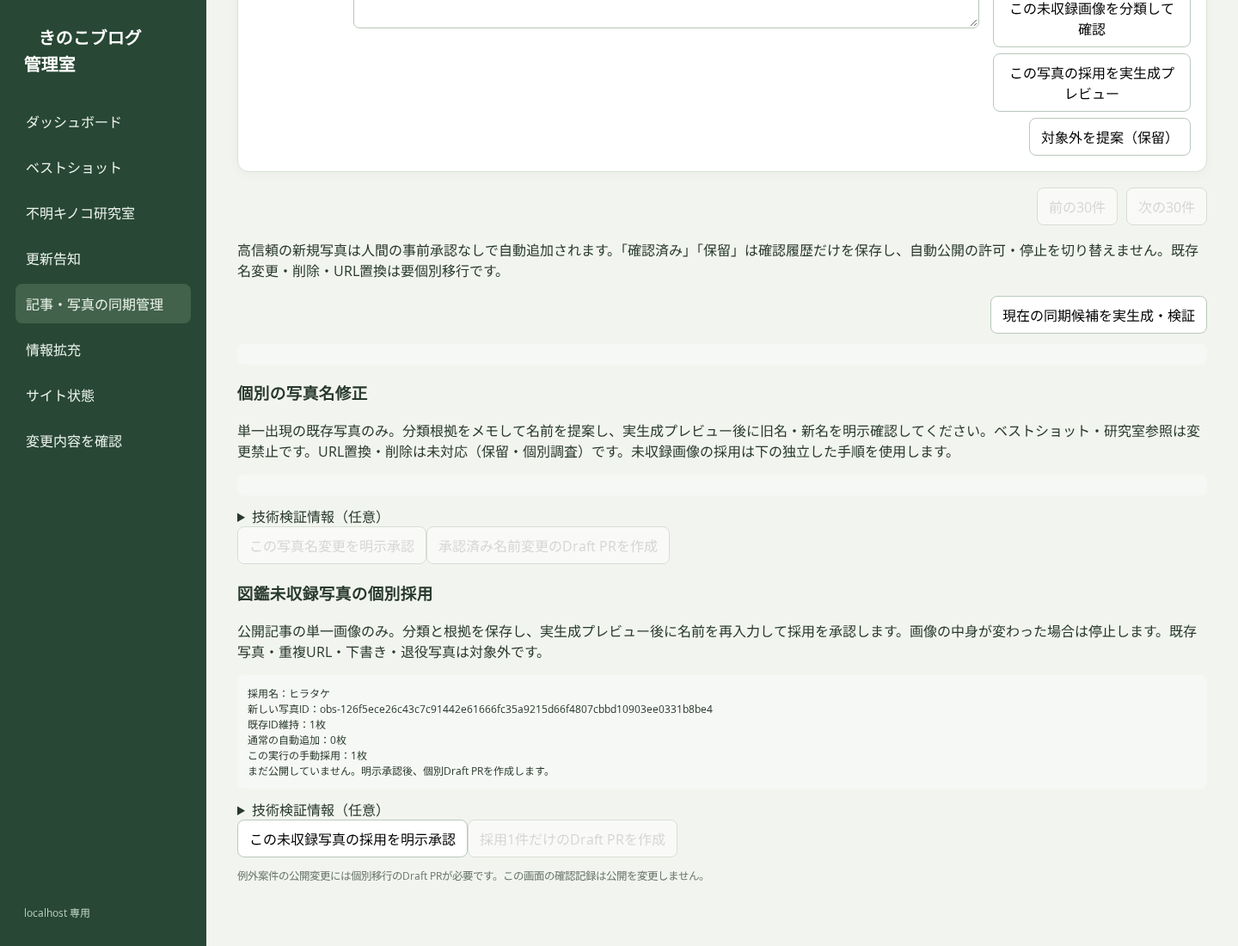
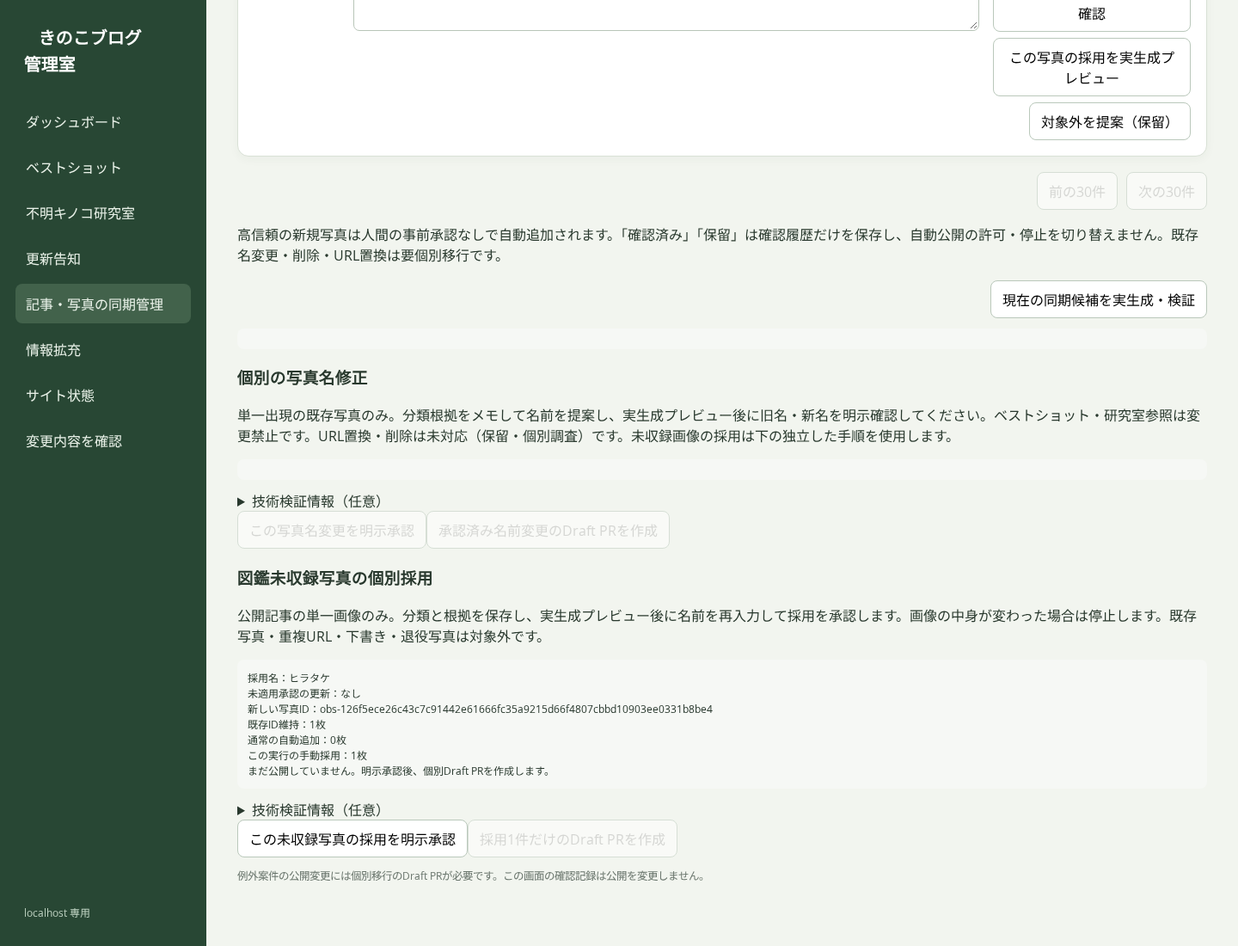
Finalize manual adoption freshness recovery and read-only validation

diff --git a/admin/static/admin.js b/admin/static/admin.js
@@ -61,6 +61,7 @@ async function loadSyncRows(){const query=new URLSearchParams({q:$('#sync-search
  v.rows.forEach(r=>{const [e,a,b]=item(r.current_name||r.candidate_name||r.detected_name||'名前未確認',r.auto_eligible?'自動追加予定（承認不要）':syncGroupNames[r.group],r.thumbnail);if(e.querySelector('img')){e.querySelector('img').loading='lazy';e.querySelector('img').referrerPolicy='no-referrer'}
  b.append(node('p',`現在: ${r.current_name||'未登録'} / 検出: ${r.detected_name||'なし'} / 候補: ${r.candidate_name||'未確定'}`),node('p',`${syncStateNames[r.state]||r.state} / ${syncReasons[r.reason]||'追加の確認が必要です'}`,'badge'),node('p',`${r.article_title||'記事情報未取得'} / 公開 ${r.published||'未取得'} / 更新 ${r.updated||'未取得'}`,'meta'),node('p',`EXIF撮影日: ${r.capture_date||'情報なし'} / 以前: ${r.previous_state||'未収録'}`,'meta'),node('p',`変更: ${r.change_type} / ${r.candidate_id}`,'meta'),node('p',`画像重複番号: ${r.ordinal} / 既存ID: ${r.observation_id||'未登録'}`,'meta'));
  if(r.unlisted_public_image)b.append(node('p',r.is_new_occurrence?'新しく検出した、図鑑に未収録の画像です。':'以前から公開記事に存在する、図鑑未収録の画像です。新規問題の件数とは区別しています。','meta'));
+ if(r.review && ['classify_named','classify_unknown','classify_non_mushroom'].includes(r.review.decision))b.append(node('p','人間の分類（公開への適用とは別）：'+({classify_named:'キノコ・'+r.review.proposed_name,classify_unknown:'キノコだが種名不明',classify_non_mushroom:'キノコ以外'}[r.review.decision]),'meta'));
  if(r.manual_adoption_receipt)b.append(node('p','手動採用済み。自動分類の結果とは別の承認記録です。適用 '+r.manual_adoption_receipt.applied_at,'meta'));
  if(r.adoption_block_reason)b.append(node('p','個別採用・継続不可：'+syncError(r.adoption_block_reason),'error'));
  if(r.auto_eligible)b.append(node('p','既存の安全条件を満たす自動追加候補です。事前承認は不要です。','meta'));
@@ -77,7 +78,7 @@ async function loadSyncRows(){const query=new URLSearchParams({q:$('#sync-search
  a.append(button('名前修正を提案（公開未収録・保護対象は保留のみ）',()=>openEditor('名前の提案を保留として保存',[field('人間が確認した名前','name')],async f=>{await choose('propose_name',f.get('name'));$('#editor').close()})));
  if(r.name_migration_available && r.review?.decision==='propose_name')a.append(button('この名前修正を実生成プレビュー',async()=>{try{const p=await api('/api/sync/exception-preview',{candidate_id:r.candidate_id,bundle_id:v.bundle_id});syncException=p;$('#sync-exception-result').textContent=`変更前：${p.old_name}\n変更後：${p.proposed_name}\n対象写真ID：${p.observation_id}\n既存写真ID維持：${p.validation.preserved_photo_ids}枚\n参照保護：検証済み\n公開：まだ変更していません。承認後にDraft PRを作成します。`;$('#sync-exception-technical').textContent=JSON.stringify(p,null,2);$('#sync-exception-approve').disabled=false;$('#sync-exception-pr').disabled=true;message('実生成済み。旧名と新名を確認して明示承認してください。')}catch(e){syncException=null;$('#sync-exception-approve').disabled=true;message(syncError(e.message),true)}}));
  if(r.unlisted_public_image && syncState.live_review_available)a.append(button('この未収録画像を分類して確認',()=>syncClassifyDialog(r,v.bundle_id,comment.querySelector('textarea').value)));
- if(r.adoption_available && ['classify_named','classify_unknown'].includes(r.review?.decision))a.append(button('この写真の採用を実生成プレビュー',async()=>{try{const p=await api('/api/sync/adoption-preview',{candidate_id:r.candidate_id,bundle_id:v.bundle_id});syncAdoption=p;$('#sync-adoption-result').textContent=`採用名：${p.gallery_name}\n新しい写真ID：${p.observation_id}\n既存ID維持：${p.validation.preserved_photo_ids}枚\n通常の自動追加：${p.validation.added_photos}枚\nこの実行の手動採用：${p.validation.manual_adoptions_applied_this_run}枚\nまだ公開していません。明示承認後、個別Draft PRを作成します。`;$('#sync-adoption-technical').textContent=JSON.stringify(p,null,2);$('#sync-adoption-approve').disabled=false;$('#sync-adoption-pr').disabled=true;message('個別採用の実生成プレビューが成功しました。')}catch(e){syncAdoption=null;$('#sync-adoption-approve').disabled=true;message(syncError(e.message),true)}}));
+ if(r.adoption_available && ['classify_named','classify_unknown'].includes(r.review?.decision))a.append(button('この写真の採用を実生成プレビュー',async()=>{try{const p=await api('/api/sync/adoption-preview',{candidate_id:r.candidate_id,bundle_id:v.bundle_id});syncAdoption=p;$('#sync-adoption-result').textContent=`採用名：${p.gallery_name}\n未適用承認の更新：${p.replaces_unapplied_instruction?'以前の未適用承認だけを置換します（写真削除ではありません）':'なし'}\n新しい写真ID：${p.observation_id}\n既存ID維持：${p.validation.preserved_photo_ids}枚\n通常の自動追加：${p.validation.added_photos}枚\nこの実行の手動採用：${p.validation.manual_adoptions_applied_this_run}枚\nまだ公開していません。明示承認後、個別Draft PRを作成します。`;$('#sync-adoption-technical').textContent=JSON.stringify(p,null,2);$('#sync-adoption-approve').disabled=false;$('#sync-adoption-pr').disabled=true;message('個別採用の実生成プレビューが成功しました。')}catch(e){syncAdoption=null;$('#sync-adoption-approve').disabled=true;message(syncError(e.message),true)}}));
  if(!r.protected_existing)a.append(button('対象外を提案（保留）',()=>choose('exclude')));
  out.append(e);
  });if(!v.rows.length)out.append(node('p','該当する候補はありません。','empty'));

diff --git a/admin/sync_adoption.py b/admin/sync_adoption.py
@@ -3,7 +3,7 @@ from datetime import datetime,timezone
 from pathlib import Path
 import json
 from article_sync import digest,payload_hash,SyncError
-from sync_adoptions import validate_manifest,stable_id,check_target,image_hash
+from sync_adoptions import validate_manifest,stable_id,check_target,image_hash,pending_replacement
 from .sync import LOCK,ReviewError,public_publication,live_capture,validate_package
 
 
@@ -38,11 +38,13 @@ def preview(review,body):
         review.adoption_preview=None
         if body['bundle_id']!=review.bundle_id:raise ReviewError('STALE_REVIEW')
         pub=public_publication(refresh=True);live=live_capture();review.assert_fresh(pub,live)
-        m=build_manifest(review,body['candidate_id']);result=validate_package(pub,adoption=m)
-        review.adoption_preview={'manifest':m,'candidate_id':body['candidate_id'],'bundle_id':review.bundle_id,'validation':result,'approved':False}
+        m=build_manifest(review,body['candidate_id'])
+        replacement=pending_replacement(m,pub['portal-data.json'],pub['article-sync-snapshot.json']['payload'])
+        result=validate_package(pub,adoption=m,replacement=replacement)
+        review.adoption_preview={'manifest':m,'candidate_id':body['candidate_id'],'bundle_id':review.bundle_id,'validation':result,'approved':False,'replacement':replacement}
         return {'ready':True,'migration_id':m['migration_id'],'decision':m['decision'],
             'gallery_name':m['gallery_name'],'observation_id':m['observation_id'],
-            'validation':result,'published':False,'affected_pages':['図鑑','五十音','季節','特徴','詳細','観察記録']}
+            'validation':result,'published':False,'replaces_unapplied_instruction':replacement['migration_id'] if replacement else None,'affected_pages':['図鑑','五十音','季節','特徴','詳細','観察記録']}
 
 
 def approve(review,body):
@@ -54,6 +56,7 @@ def approve(review,body):
         if body.get('confirm_adoption') is not True or body!={'migration_id':m['migration_id'],'confirm_name':m['gallery_name'],'confirm_adoption':True}:raise ReviewError('ADOPTION_EXPLICIT_CONFIRMATION_MISMATCH')
         pub=public_publication(refresh=True);live=live_capture();review.assert_fresh(pub,live)
         if build_manifest(review,p['candidate_id'])!=m:raise ReviewError('ADOPTION_IMAGE_OR_REVIEW_CHANGED')
+        if pending_replacement(m,pub['portal-data.json'],pub['article-sync-snapshot.json']['payload'])!=p['replacement']:raise ReviewError('ADOPTION_PENDING_REPLACEMENT_CHANGED')
         p['approved']=False
         review.audit.append({'event':'manual_photo_adoption_explicitly_approved','candidate_id':p['candidate_id'],
             'migration_id':m['migration_id'],'at':datetime.now(timezone.utc).isoformat(),'application':'DRAFT_PR_REQUIRED_NOT_PUBLISHED'})
@@ -61,9 +64,14 @@ def approve(review,body):
         return {'approved':True,'published':False,'migration_id':m['migration_id']}
 
 
-def validate_changed_paths(paths,m):
+def validate_changed_paths(paths,m,replacement=None):
     path='sync-migrations/photo-adoptions/'+validate_manifest(m)['migration_id']+'.json'
-    if paths!=[path]:raise ReviewError('ADOPTION_PR_PATHS_INVALID')
+    allowed=[path]
+    if replacement is not None:
+        validate_manifest(replacement)
+        if replacement['observation_id']!=m['observation_id'] or replacement['migration_id']==m['migration_id']:raise ReviewError('ADOPTION_PR_PATHS_INVALID')
+        allowed.append('sync-migrations/photo-adoptions/'+replacement['migration_id']+'.json')
+    if sorted(paths)!=sorted(allowed):raise ReviewError('ADOPTION_PR_PATHS_INVALID')
     return path
 
 
@@ -87,11 +95,19 @@ def create_pull_request(review,body):
         if run(['git','rev-parse','HEAD']).stdout.strip()!=base: raise ReviewError('FRESH_MAIN_CHECKOUT_REQUIRED')
         pub=public_publication();live=live_capture();review.assert_fresh(pub,live)
         if build_manifest(review,package['candidate_id'])!=m: raise ReviewError('STALE_REVIEW')
+        replacement=pending_replacement(m,pub['portal-data.json'],pub['article-sync-snapshot.json']['payload'])
+        if replacement!=package['replacement']:raise ReviewError('ADOPTION_PENDING_REPLACEMENT_CHANGED')
         directory=Path(tempfile.mkdtemp(prefix='kinoko-adoption-pr-'));work=directory/'work';added=False
         branch=safe_branch_name('photo-adoption')
         try:
             run(['git','worktree','add','-b',branch,str(work),'origin/main']);added=True
-            path=validate_changed_paths(['sync-migrations/photo-adoptions/'+m['migration_id']+'.json'],m)
+            paths=['sync-migrations/photo-adoptions/'+m['migration_id']+'.json']
+            if replacement is not None: paths.append('sync-migrations/photo-adoptions/'+replacement['migration_id']+'.json')
+            path=validate_changed_paths(paths,m,replacement)
+            if replacement is not None:
+                old_file=work/('sync-migrations/photo-adoptions/'+replacement['migration_id']+'.json')
+                if json.loads(old_file.read_text(encoding='utf-8'))!=replacement:raise ReviewError('ADOPTION_PENDING_REPLACEMENT_CHANGED')
+                old_file.unlink()
             target=work/path;target.parent.mkdir(parents=True,exist_ok=True)
             target.write_text(json.dumps(m,ensure_ascii=False,indent=2)+'\n',encoding='utf-8')
             previous=directory/'previous';previous.mkdir()
@@ -116,15 +132,16 @@ def create_pull_request(review,body):
                 if file.is_file() and not file.is_symlink(): file.unlink()
             changed=sorted(set(run(['git','diff','--name-only'],cwd=work).stdout.splitlines()+
                 run(['git','ls-files','--others','--exclude-standard'],cwd=work).stdout.splitlines()))
-            validate_changed_paths(changed,m)
-            run(['git','add','--',path],cwd=work)
-            validate_changed_paths(run(['git','diff','--cached','--name-only'],cwd=work).stdout.splitlines(),m)
+            validate_changed_paths(changed,m,replacement)
+            run(['git','add','--',*paths],cwd=work)
+            validate_changed_paths(run(['git','diff','--cached','--name-only'],cwd=work).stdout.splitlines(),m,replacement)
             run(['git','diff','--cached','--check'],cwd=work)
             # Last freshness check before any write to origin.
             run(['git','fetch','origin','main','gh-pages'])
             if run(['git','rev-parse','origin/main']).stdout.strip()!=base: raise ReviewError('STALE_MAIN')
             review.assert_fresh(public_publication(),live_capture())
             if build_manifest(review,package['candidate_id'])!=m: raise ReviewError('ADOPTION_IMAGE_OR_REVIEW_CHANGED')
+            if pending_replacement(m,review.publication['portal-data.json'],review.publication['article-sync-snapshot.json']['payload'])!=replacement:raise ReviewError('ADOPTION_PENDING_REPLACEMENT_CHANGED')
             if json.loads(target.read_text(encoding='utf-8')) != m:
                 raise ReviewError('ADOPTION_PR_MANIFEST_CHANGED')
             staged_manifest = json.loads(run(['git','show',':'+path],cwd=work).stdout)
@@ -140,7 +157,7 @@ def create_pull_request(review,body):
             result=run(['gh','pr','create','--base','main','--head',branch,'--draft',
                 '--title','Adopt explicitly reviewed public mushroom photo','--body-file',str(body_file)],cwd=work)
             review.audit.append({'event':'manual_photo_adoption_draft_pr_created','migration_id':m['migration_id'],
-                'at':datetime.now(timezone.utc).isoformat(),'application':'DRAFT_PR_NOT_PUBLISHED'})
+                'at':datetime.now(timezone.utc).isoformat(),'application':'DRAFT_PR_NOT_PUBLISHED','replaced_unapplied_migration':replacement['migration_id'] if replacement else None})
             review._save();review.adoption_preview=None
             return {'branch':branch,'url':result.stdout.strip(),'draft':True,'published':False}
         except (ReviewError,SyncError): raise

diff --git a/tests/test_admin_sync_adoption.py b/tests/test_admin_sync_adoption.py
@@ -179,3 +179,60 @@ def test_private_validation_code_uses_real_generator_but_no_source_bodies_escape
     assert main.ARTICLES_DIR==article_path and main.ARTICLE_METADATA_FILE==metadata_path
     assert original_files=={p:p.read_bytes() for p in Path(article_path).rglob('*') if p.is_file()}
     assert (candidate/'portal-data.json').exists() and not (candidate/'articles').exists()
+
+
+def test_stale_never_applied_instruction_can_be_reapproved_for_same_target_only(reviewed):
+    from sync_adoptions import pending_replacement
+    import sync_adoptions
+    r,row,pub,live=reviewed;classify(r,row)
+    old=app.build_manifest(r,row['candidate_id']);old['baseline_snapshot_sha256']='a'*64
+    old['migration_id']=sync.payload_hash({k:v for k,v in old.items() if k!='migration_id'})
+    sync.write_json(sync_adoptions.DIRECTORY/(old['migration_id']+'.json'),old)
+    p=app.preview(r,{'candidate_id':row['candidate_id'],'bundle_id':r.bundle_id})
+    assert p['ready'] and p['replaces_unapplied_instruction']==old['migration_id']
+    new=r.adoption_preview['manifest']
+    assert new['observation_id']==old['observation_id']
+    paths=['sync-migrations/photo-adoptions/'+m['migration_id']+'.json' for m in (old,new)]
+    assert app.validate_changed_paths(paths,new,old).endswith(new['migration_id']+'.json')
+    with pytest.raises(ReviewError):app.validate_changed_paths(paths+['data/best-shots.json'],new,old)
+    assert app.approve(r,{'migration_id':p['migration_id'],'confirm_name':p['gallery_name'],'confirm_adoption':True})['approved']
+    assert (sync_adoptions.DIRECTORY/(old['migration_id']+'.json')).exists()  # Preview never edits source.
+
+
+def test_classification_stays_visible_in_unlisted_filter_until_explicit_hold(reviewed):
+    r,row,pub,live=reviewed;classify(r,row)
+    assert r.page(group='unlisted')['total']==1 and r.page(group='held')['total']==0
+    classify(r,row,'hold','');assert r.page(group='held')['total']==1
+
+
+def test_refresh_pr_removes_only_same_never_applied_instruction(reviewed,monkeypatch):
+    import admin.git_workflow as workflow
+    import subprocess,json,sync_adoptions
+    from types import SimpleNamespace
+    r,row,pub,live=reviewed;classify(r,row)
+    old=app.build_manifest(r,row['candidate_id']);old['baseline_snapshot_sha256']='a'*64
+    old['migration_id']=sync.payload_hash({k:v for k,v in old.items() if k!='migration_id'})
+    sync.write_json(sync_adoptions.DIRECTORY/(old['migration_id']+'.json'),old)
+    p=app.preview(r,{'candidate_id':row['candidate_id'],'bundle_id':r.bundle_id})
+    app.approve(r,{'migration_id':p['migration_id'],'confirm_name':p['gallery_name'],'confirm_adoption':True})
+    new=deepcopy(r.adoption_preview['manifest']);paths=['sync-migrations/photo-adoptions/'+m['migration_id']+'.json' for m in (new,old)]
+    calls=[];work_holder=[];monkeypatch.setattr(workflow,'repository_status',lambda:{'gh_authenticated':True})
+    def run(args,**kw):
+        calls.append(args);out=''
+        if args[:3]==['git','worktree','add']:
+            work=Path(args[-2]);work_holder.append(work);(work/'tests').mkdir(parents=True);(work/'tests/test.js').write_text('')
+            sync.write_json(work/paths[1],old)
+        if args[:2]==['git','rev-parse']:out='a'*40
+        if args==['git','diff','--name-only']:out=paths[1]
+        if args[:2]==['git','ls-files']:out='' if '--' in args else paths[0]
+        if args==['git','diff','--cached','--name-only']:out='\n'.join(sorted(paths))
+        if args==['git','show',':'+paths[0]]:out=json.dumps(new)
+        if args[:2]==['git','push']:
+            assert not (work_holder[0]/paths[1]).exists()
+            assert json.loads((work_holder[0]/paths[0]).read_text())==new
+        if args[:3]==['gh','pr','create']:out='https://github.com/example/pull/1'
+        return SimpleNamespace(stdout=out,returncode=0)
+    monkeypatch.setattr(workflow,'run',run);monkeypatch.setattr(subprocess,'run',lambda *a,**kw:SimpleNamespace(returncode=0))
+    assert app.create_pull_request(r,{})['draft']
+    assert next(c for c in calls if c[:2]==['git','add'])==['git','add','--',*paths]
+    assert r.audit[-1]['replaced_unapplied_migration']==old['migration_id']

diff --git a/admin/sync.py b/admin/sync.py
@@ -410,7 +410,9 @@ class SyncReview:
         fresh = d and d.get('bundle_id') == self.bundle_id
         result['review'] = d if fresh else None; result['stale_review'] = bool(d and not fresh)
         if fresh:
-            if d['decision'] == 'hold' or d['decision'] in {'propose_name','exclude','confirm_url','delete','classify_named','classify_unknown'}: result['group']='held'
+            if d['decision'] in {'classify_named','classify_unknown'}:
+                result['group']='unlisted'; result['human_classification_saved']=True
+            elif d['decision'] == 'hold' or d['decision'] in {'propose_name','exclude','confirm_url','delete'}: result['group']='held'
             elif d['decision'] in {'confirmed','no_change','classify_non_mushroom'}:
                 result['confirmation_only']=True
                 if row['group'] not in {'blocker','migration'}: result['group']='reviewed'
@@ -489,7 +491,7 @@ class SyncReview:
             return self.last_preview
 
 
-def validate_package(publication, manifest=None, *, adoption=None):
+def validate_package(publication, manifest=None, *, adoption=None, replacement=None):
     """Full, fail-closed real generator in a temporary directory, never publish."""
     from article_sync import run as generate
     with isolated_generator() as (_, temporary):
@@ -516,6 +518,10 @@ def validate_package(publication, manifest=None, *, adoption=None):
                 migrations = temporary/'adoption-migrations'
                 if original_adoptions.exists(): copytree(original_adoptions,migrations)
                 else: migrations.mkdir()
+                expected = sync_adoptions.pending_replacement(adoption,publication['portal-data.json'],publication['article-sync-snapshot.json']['payload'])
+                if expected != replacement: raise ReviewError('ADOPTION_PENDING_REPLACEMENT_CHANGED')
+                if replacement is not None:
+                    (migrations/(replacement['migration_id']+'.json')).unlink()
                 (migrations/(adoption['migration_id']+'.json')).write_text(json.dumps(adoption),encoding='utf-8')
                 sync_adoptions.DIRECTORY = migrations
             code = generate(previous, output, report)

diff --git a/sync_adoptions.py b/sync_adoptions.py
@@ -251,3 +251,21 @@ class Adoptions:
                 'image_content_sha256':m['image_content_sha256'],'applied_at':timestamp})
         validate_ledger(self.ledger,portal)
         return self.ledger
+
+
+def pending_replacement(manifest, previous, snapshot):
+    """Refresh ONE never-published instruction; never remove an applied adoption.
+
+    The old/new image identity must be identical. Changed URL or a published ID
+    is not a refresh. The removed instruction remains auditable in git history.
+    """
+    validate_manifest(manifest)
+    ledger=validate_ledger((snapshot or {}).get('manual_adoptions',[]),previous)
+    old=next((m for m in load_manifests() if m['observation_id']==manifest['observation_id']),None)
+    if old is None:return None
+    if any(r['migration_id']==old['migration_id'] or r['observation_id']==old['observation_id'] for r in ledger):
+        fail('ADOPTION_APPLIED_REPLACEMENT_FORBIDDEN')
+    if any(r['observation_id']==old['observation_id'] for r in previous['observations']):fail('ADOPTION_TARGET_ALREADY_PUBLISHED')
+    if any(old[k]!=manifest[k] for k in ('article_hash','url_hash','ordinal','observation_id')):fail('ADOPTION_PENDING_IDENTITY_CHANGED')
+    if old['migration_id']==manifest['migration_id']:fail('ADOPTION_PENDING_ALREADY_RECORDED')
+    return old

diff --git a/tests/test_sync_adoptions.py b/tests/test_sync_adoptions.py
@@ -197,3 +197,12 @@ def test_manifests_and_snapshot_ledger_reject_unknown_fields_symlinks_and_tamper
     snap=sync.read_json(first/'article-sync-snapshot.json');p=sync.read_json(first/'portal-data.json')
     snap['payload']['manual_adoptions'][0]['url_hash']='a'*64;snap['sha256']=sync.payload_hash(snap['payload'])
     with pytest.raises(sync.SyncError):sync.validate_snapshot(snap,p)
+
+
+def test_applied_adoption_cannot_be_replaced_by_pending_refresh(tmp_path,monkeypatch):
+    main,previous,directory,report=setup(monkeypatch,tmp_path);m=manifest(main,previous,directory)
+    first=tmp_path/'first';assert sync.run(previous,first,report)==0
+    pub=publication(first);new=deepcopy(m);new['approved_at']='2026-10-13T09:00:00+00:00'
+    new['migration_id']=sync.payload_hash({k:v for k,v in new.items() if k!='migration_id'})
+    with pytest.raises(sync.SyncError,match='APPLIED_REPLACEMENT_FORBIDDEN'):
+        adoption.pending_replacement(new,pub['portal-data.json'],pub['article-sync-snapshot.json']['payload'])

diff --git a/docs/ARTICLE_PHOTO_SYNC_MANUAL_ADOPTION.md b/docs/ARTICLE_PHOTO_SYNC_MANUAL_ADOPTION.md
@@ -20,7 +20,7 @@
    - 判断保留：ローカル保留。通常同期を停止しません。
 5. 名前判明/種名不明かつ対応可能な画像だけに、個別採用の実生成プレビューボタンが表示されます。既存ID・参照・全生成ページ・画像本体を検証します。
 6. プレビューの採用名を再入力して明示承認。まだ公開されません。
-7. 「採用1件だけのDraft PRを作成」。最新mainのclean checkoutが必要です。専用worktreeで実API GET、画像本体、全pytest、全JSテスト、差分・最新公開状態を再検証し、1マニフェストだけのDraft PRを作成します。merge/deployはしません。
+7. 「採用1件だけのDraft PRを作成」。最新mainのclean checkoutが必要です。専用worktreeで実API GET、画像本体、全pytest、全JSテスト、差分・最新公開状態を再検証し、通常は1マニフェストだけのDraft PRを作成します。未適用承認の更新は、同じ対象の旧ファイル削除＋新ファイル追加だけを厳密に許可します。merge/deployはしません。
 8. 人間がPRを監査し、マージ後の正常な日次同期で初めて反映されます。この開発PRには実写真の採用マニフェストを含めません。
 
 ローカル判断・根拠全文はignored `admin/local-state/sync/review.json` に保存。Gitへは根拠のハッシュだけを保存します。再起動、判断変更、公開/ライブ状態の再取得では承認を再検証し、再プレビューが必要です。
@@ -39,13 +39,14 @@
 
 新IDは独立したhuman-adoption-v1 namespaceと記事ID/URLハッシュ/出現番号から決定します。既存IDを再生成せず、翌日も同じID。公開snapshotに適用済み台帳を保存し、不変マニフェストのハッシュ・対象ID・承認名・画像内容ハッシュを照合します。マニフェストの欠落/変更・台帳破損・新たな重複・元根拠/URL/画像内容の変更を拒否します。
 
-初回は承認元の公開snapshot SHA-256との完全一致が必要です。毎日の同期でsnapshotが更新された場合（差分ゼロの日でも成功日時が変わります）、未適用承認は失効。再取得→再分類確認→再プレビュー→新しいDraft PRが必要です。古い承認のSHAだけを書き換えて流用しません。適用済みは独立台帳で継続し、元画像/根拠が不変なら対象外の本文・記事順・更新日時変更は許可します。
+初回は承認元の公開snapshot SHA-256との完全一致が必要です。毎日の同期でsnapshotが更新された場合（差分ゼロの日でも成功日時が変わります）、未適用承認は失効。再取得→再分類確認→再プレビュー→新しいDraft PRが必要です。古い承認のSHAだけを書き換えて流用しません。すでにmainへ入った未適用承認が古くなった場合も、同じ未公開の対象を再確認し、旧承認ファイルだけを新しい承認へ置換するDraft PRを作れます。写真の削除ではなく、旧承認はGit履歴へ残ります。適用済み台帳にある承認の置換は拒否します。適用済みは独立台帳で継続し、元画像/根拠が不変なら対象外の本文・記事順・更新日時変更は許可します。
 
 ## 保護と未対応
 
 - 既存906写真のID/名前/URL、Best Shot3件、研究室67ケース、同定履歴、固定retirement7枚を保護。種名不明の新規手動採用は研究室に新しい写真/ケースを追加する場合がありますが、既存ケースID/参照は保持します。
 - 重複URL、既存galleryへの採用、下書き/退役記事、未登録の推測名、取得/画像decode不能、stale承認はBLOCKED。
 - 画像URL置換、既存写真削除、retirement復活、既存研究室同定履歴の変更は対象外。
+- 未適用承認の対象がraw galleryで自動採用される状態へ変わった場合、取消/自動移管は別の個別移行が必要です。この採用経路から自動で切り替えません。
 - 適用済み手動採用を取消/再分類したり、自動採用へ切り替えたりする移行は未対応。元根拠が変われば停止し、別の個別移行を設計します。
 - 外部画像URLが検証完了後に変更されることまで固定できません。各生成時の画像本体照合で検出し、公開処理を停止します。
 - fail-closed wrapperは全検証成功後だけ出力を置換。失敗時は最後の正常公開サイトを完全保持します。

diff --git a/docs/sync-adoptions/IMPLEMENTATION_REPORT.md b/docs/sync-adoptions/IMPLEMENTATION_REPORT.md
@@ -36,7 +36,7 @@
 - Chromium 1440：thumbnail表示、未収録フィルター、分類保存、実生成プレビュー、採用名再入力、監査保存、判断取消、既存タブ。console error/横overflowなし。写真とAPIはfixture。実写真を採用していません（`browser-validation.json`）。
 - 管理画面のPR書き込みは分離worktreeのunit transportで検証。ブラウザーでは実PR書き込みを実行していません。
 
-ローカル全pytest 808 passed / 808 collected、全JavaScript 43 passed、focused 102 passed。compileall・JS syntax・diff-check・Workflow YAMLも成功（`test-validation.json`）。実APIのGET-only事前検証はこの開発Draft PR専用の一時workflowで実施し、終了後に最終差分から除去します。最終head CIも確認します。現時点では実API/最終CIの完了待ちです。
+ローカル全pytest 812 passed / 812 collected、全JavaScript 43 passed、focused 106 passed。compileall・JS syntax・diff-check・Workflow YAMLも成功（`test-validation.json`）。実API GET-only検証は [Actions 38224423795](https://github.com/charchan123/hatena-photo-gallery/actions/runs/38224423795) でSUCCESS。12ページ/112entry/下書き2除外/公開110記事/976画像/906gallery。全906のID・名・URL・記事対応、Best Shot3件・研究室67件、退役7枚の出力検査PASS。322HTML、2回目SUCCESS・差分0。未収録70画像はすべて以前からの画像（新規0）。70は構造上の単一URL候補であり、キノコ判定や画像本体検証が済んだ採用件数ではありません。実写真の採用は未実施。一時workflowは最終差分から削除。最終の生成クラス/transportと検証commitとのAST一致を別途保存（`live-proof-continuity.json`）。最終head CIのActions URLと結果はPR本文/Checksで追跡し、最終応答前に確認します。
 
 ## 未対応・運用上の制限
 
@@ -55,3 +55,8 @@
 
 
 ![管理画面の採用プレビュー（fixture・実写真は未採用）](adoption-preview.webp)
+
+
+## 古い未適用承認の再確認
+
+初回公開前にsnapshotが更新された承認は失効します。未適用であることをsnapshot台帳と公開IDで証明でき、同一記事/URL/出現番号/新写真IDで再レビューした場合だけ、旧承認を新承認へ置換できます。previewは元ファイルを編集しません。専用PRは旧manifest削除＋新manifest追加の2パスだけを許可し、Git履歴に旧承認を保持。適用済みの承認を削除/置換することは禁止。これは写真削除の許可リストではありません。
